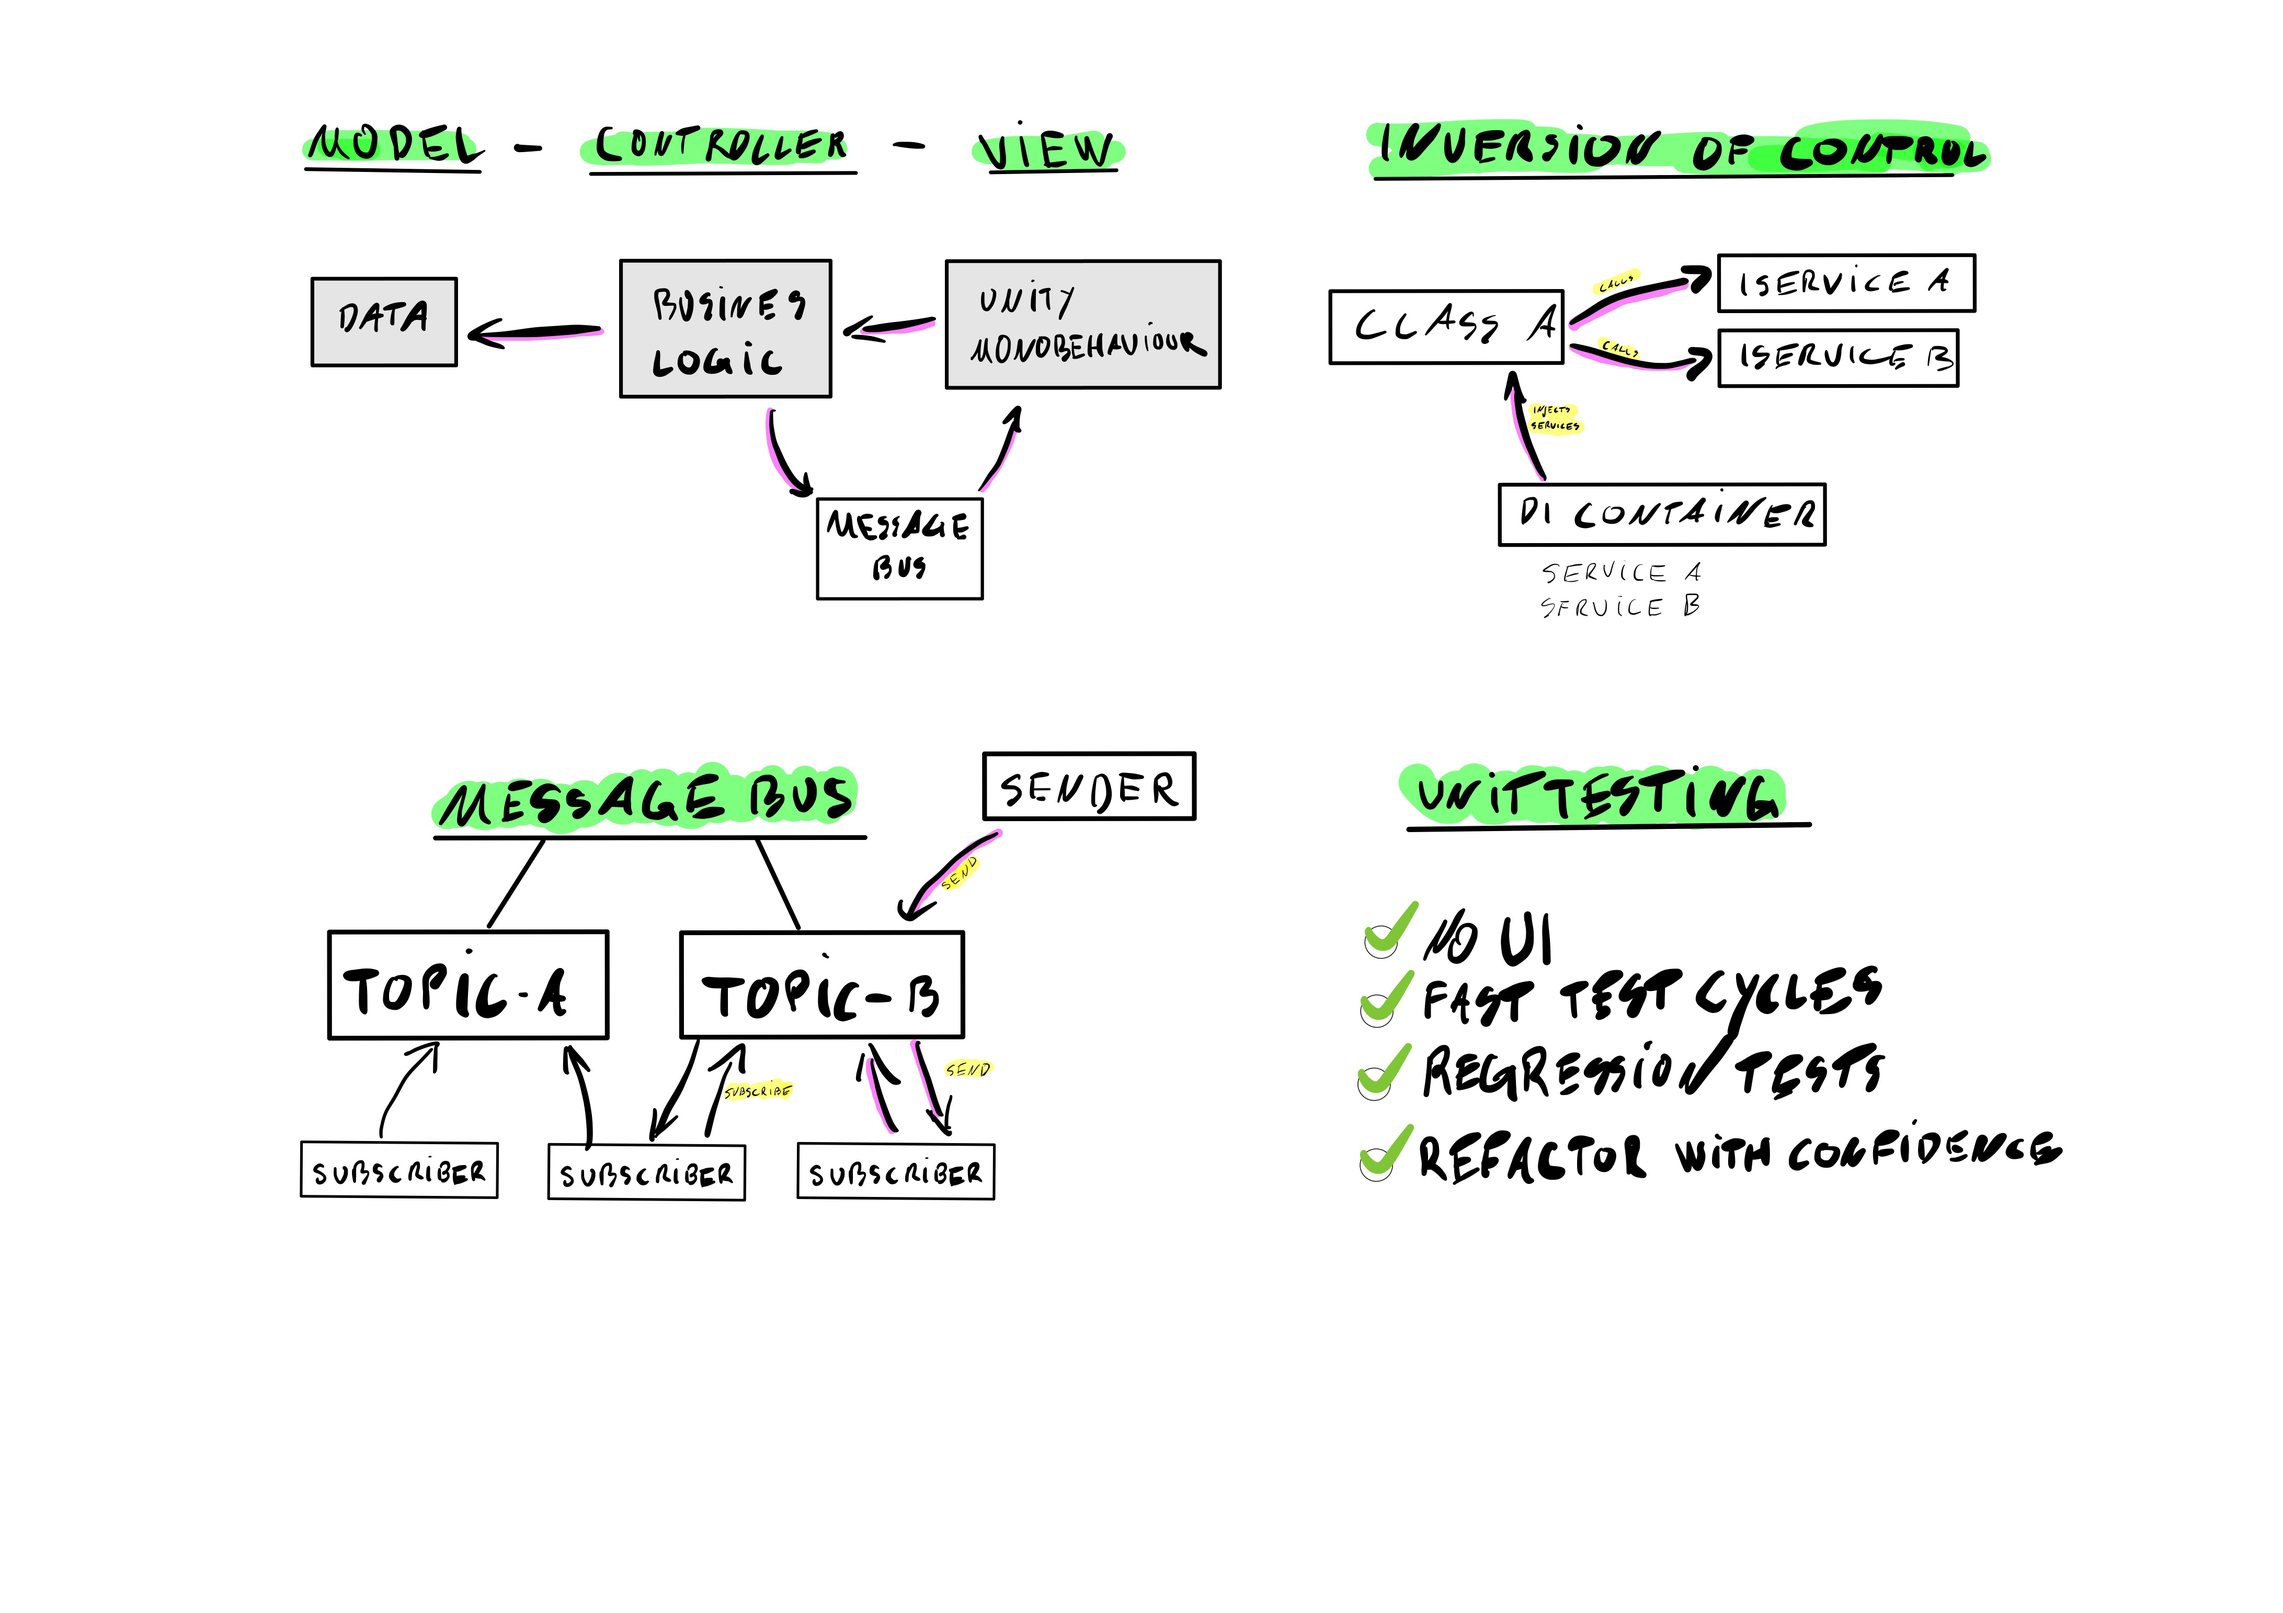
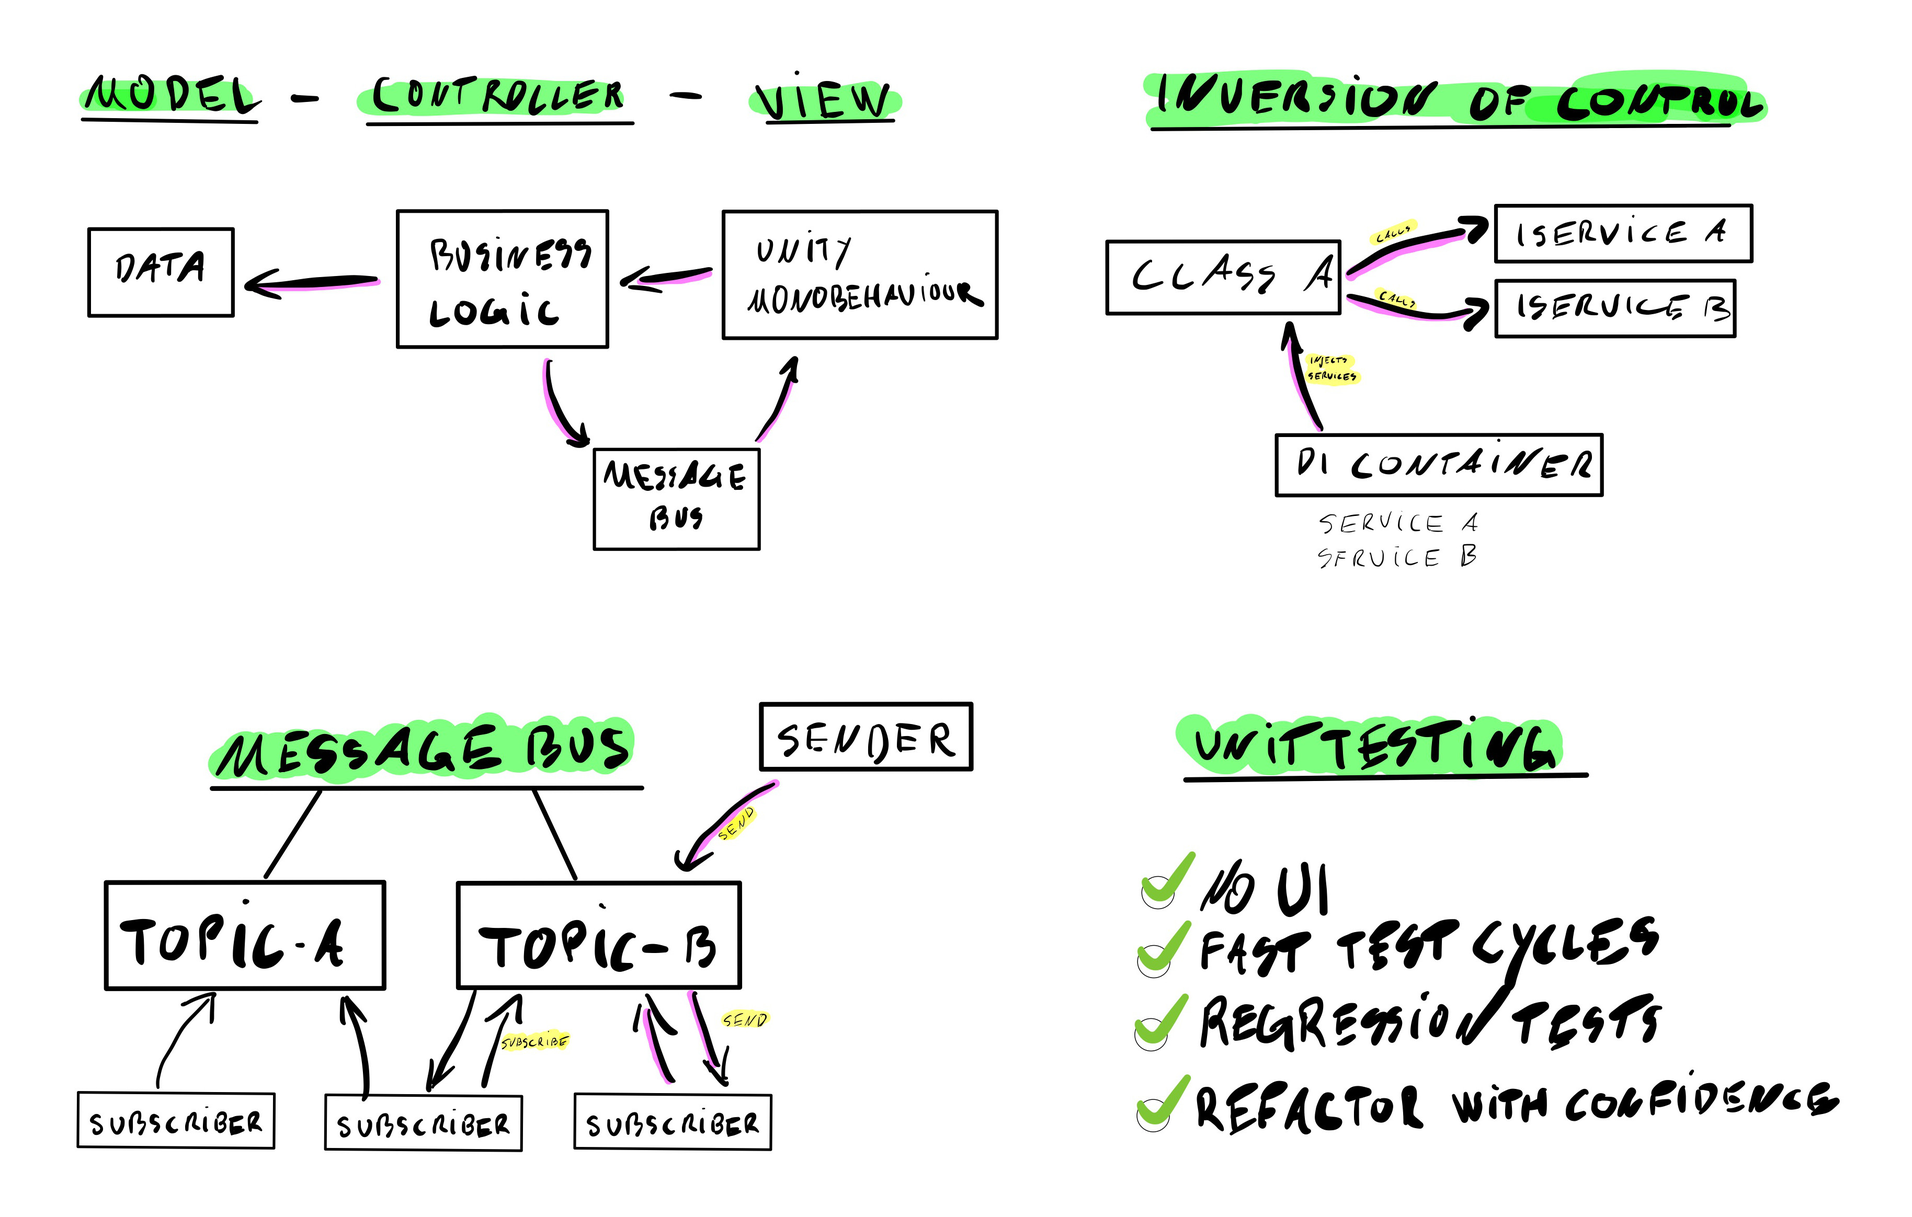
fix spelling of business

diff --git a/_posts/2020/2020-11-11-scalable-unity-architecture.md b/_posts/2020/2020-11-11-scalable-unity-architecture.md
@@ -52,7 +52,7 @@ We settled on using [Zenject/Extenject](https://github.com/svermeulen/Extenject)
 ## Model-View-Controller
 
 The heart of this architecture is breaking up the code into seperate layers. The Model-View-Controller (MVC) design applied to Unity looks as follows:
-![mvc]({{ site.url }}/assets/unity-arch/mvc.png)
+![mvc]({{ site.url }}/assets/unity-arch/mvc.jpg)
 
 Unity Monobehaviours live in the **View**-Layer and are supposed to shield the rest of the architecture from the hard to unittest elements of Unity. This layer only has access to the **Control**-Layer. The **View** creates instances of prefabs, uses `[SerializeField]` to use Unity typical drag/drop components. No logic is encoded in here, pure visualization of data only.
 
